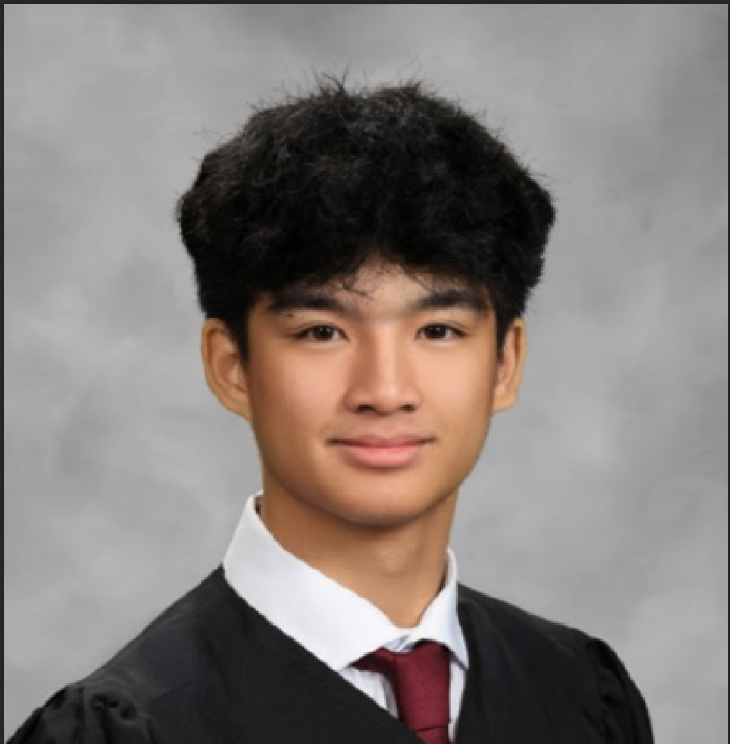
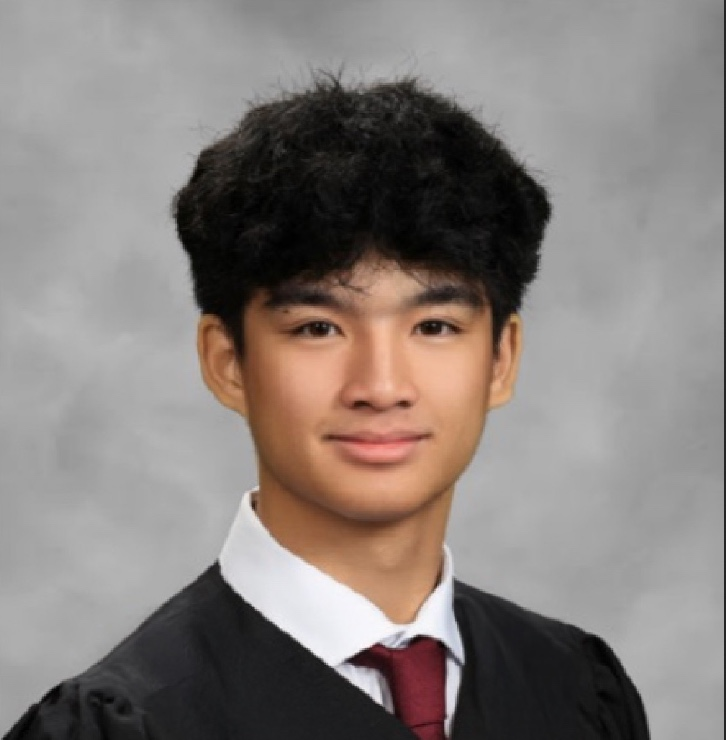
stack improvements

diff --git a/src/app/page.tsx b/src/app/page.tsx
@@ -87,7 +87,15 @@ export default function Page() {
                   { id: 3, img: "/amazonlogo.jpg", tooltip: "Amazon Firm Day!" },
                   { id: 4, img: "/casecomp.png", tooltip: "2nd place at the QSAO Case Competition!" },
                   { id: 2, img: "/amazonfirmday.jpg", tooltip: "3rd at the Amazon Office Project Showcase!" },
-                  { id: 1, img: "/profile1.jpg", tooltip: "That's me! 👋" },
+                  { 
+                    id: 1, 
+                    img: "/profile1.jpg", 
+                    tooltip: "That's me! 👋",
+                    imageStyle: { 
+                      transform: 'scale(1.05)',
+                      objectPosition: 'center 30%'
+                    }
+                  },
                 ]}
                 animationConfig={{ stiffness: 300, damping: 25 }}
               />

diff --git a/src/components/Stack.tsx b/src/components/Stack.tsx
@@ -57,7 +57,12 @@ interface StackProps {
   sensitivity?: number;
   cardDimensions?: { width: number; height: number };
   sendToBackOnClick?: boolean;
-  cardsData?: { id: number; img: string; tooltip?: string }[];
+  cardsData?: { 
+    id: number; 
+    img: string; 
+    tooltip?: string;
+    imageStyle?: React.CSSProperties;
+  }[];
   animationConfig?: { stiffness: number; damping: number };
 }
 
@@ -152,6 +157,7 @@ export default function Stack({
                 src={card.img}
                 alt={`card-${card.id}`}
                 className="card-image"
+                style={card.imageStyle}
               />
             </motion.div>
           </CardRotate>
